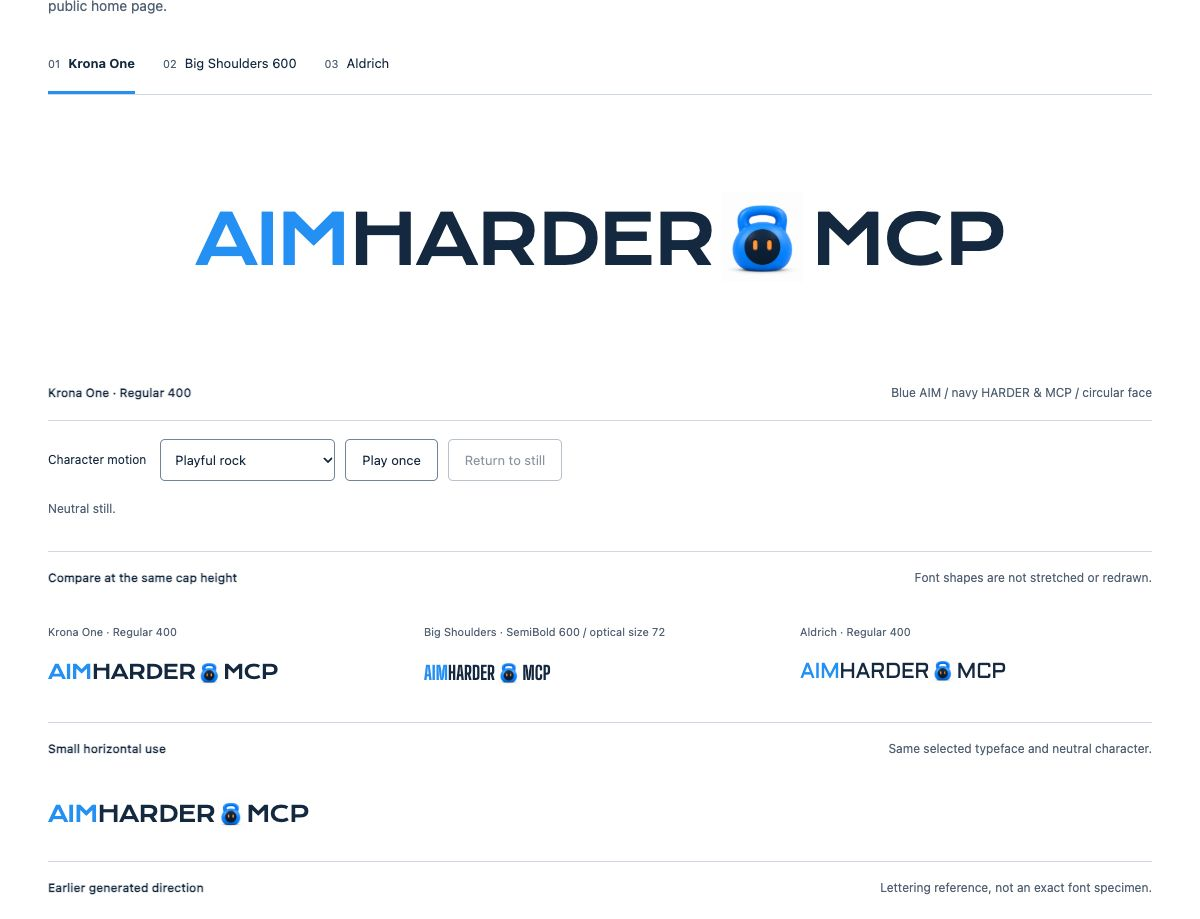
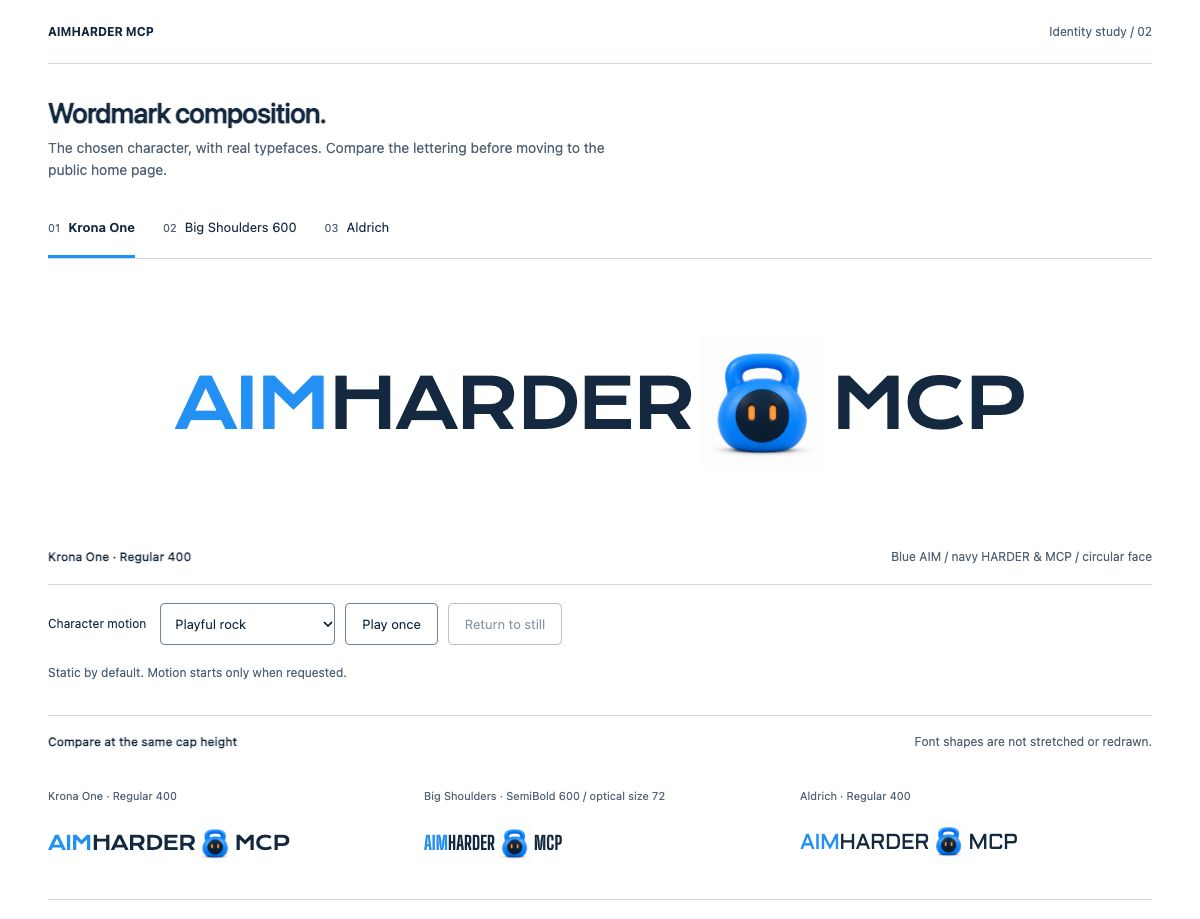
design: enlarge wordmark symbol by fifty percent

diff --git a/design/identity/wordmark-study/index.html b/design/identity/wordmark-study/index.html
@@ -7,10 +7,10 @@
 @font-face{font-family:Krona;src:url('assets/KronaOne-Regular.ttf') format('truetype');font-weight:400;font-display:swap}
 @font-face{font-family:Shoulders;src:url('assets/BigShoulders.ttf') format('truetype');font-weight:100 900;font-display:swap}
 @font-face{font-family:Aldrich;src:url('assets/Aldrich-Regular.ttf') format('truetype');font-weight:400;font-display:swap}
-:root{--blue:#2490f4;--ink:#14283f;--muted:#516174;--line:#cfd8e3;--cap:clamp(18px,4.4vw,53px);font-family:system-ui,sans-serif;color:var(--ink);background:#fff;color-scheme:light}*{box-sizing:border-box}body{margin:0}main{max-width:1240px;margin:auto;padding:24px 48px 60px}.masthead{display:flex;justify-content:space-between;gap:20px;padding-bottom:24px;border-bottom:1px solid var(--line);font-size:12px}.masthead span{color:var(--muted)}h1{font-size:28px;font-weight:550;letter-spacing:-.035em;margin:32px 0 8px}p{font-size:14px;line-height:1.6;color:var(--muted);margin:0;max-width:64ch}.type-tabs{display:flex;gap:28px;margin-top:28px;border-bottom:1px solid var(--line)}button,select{font:inherit;font-size:13px;color:var(--ink);background:#fff;cursor:pointer}button{border:0}.type-tabs button{min-height:48px;padding:0 0 10px;border-bottom:3px solid transparent;text-align:left}.type-tabs button[aria-pressed=true]{border-color:var(--blue);font-weight:650}.type-tabs small{color:var(--muted);margin-right:8px;font-size:11px;font-weight:400}button:focus-visible,select:focus-visible,a:focus-visible{outline:3px solid #1765b0;outline-offset:4px}.stage{min-height:290px;display:flex;align-items:center;justify-content:center;overflow:hidden}.logo{--family:Krona;--em:1.3103;--weight:400;--tracking:-.035em;display:inline-flex;align-items:center;justify-content:center;white-space:nowrap;font-family:var(--family),sans-serif;font-size:calc(var(--cap)*var(--em));font-weight:var(--weight);font-synthesis:none;font-optical-sizing:none;font-variation-settings:normal;letter-spacing:var(--tracking);line-height:1}.logo.shoulders{--family:Shoulders;--em:1.25;--weight:600;--tracking:.005em;font-variation-settings:'wght' 600,'opsz' 72}.logo.aldrich{--family:Aldrich;--em:1.4282;--weight:400;--tracking:-.025em}.aim{color:var(--blue)}.word{display:inline-flex}.symbol{position:relative;display:inline-block;width:calc(var(--cap)*1.55);height:calc(var(--cap)*1.70);margin:0 calc(var(--cap)*.14);overflow:hidden;flex:none;letter-spacing:0}.symbol img,.symbol video{position:absolute;width:calc(var(--cap)*1.9);height:calc(var(--cap)*1.9);max-width:none;left:50%;top:50%;transform:translate(-50%,-50%);object-fit:contain}.symbol{transform:translateY(calc(var(--cap)*-.05))}.logo.aldrich .symbol{transform:translateY(calc(var(--cap)*-.19))}.symbol [hidden]{display:none!important}.caption{display:flex;justify-content:space-between;gap:20px;font-size:12px;padding-bottom:20px;border-bottom:1px solid var(--line);color:var(--muted)}.caption strong{font-weight:550;color:var(--ink)}.controls{display:flex;align-items:center;gap:10px;flex-wrap:wrap;padding:18px 0}.controls label{font-size:12px;margin-right:4px}.controls select{min-height:42px;max-width:200px;border:1px solid #73849a;border-radius:5px;padding:8px 28px 8px 10px}.action{min-height:42px;border:1px solid #73849a;border-radius:5px;padding:8px 16px}.action:disabled{cursor:default;opacity:.5}.status{font-size:12px;min-height:20px;margin-bottom:32px}.section-title{display:flex;justify-content:space-between;gap:20px;font-size:12px;font-weight:550;margin:0;padding:18px 0;border-top:1px solid var(--line)}.section-title span{font-weight:400;color:var(--muted)}.comparisons{display:grid;grid-template-columns:1fr 1fr 1fr;gap:24px;padding:20px 0 36px}.specimen{min-width:0}.specimen>p{font-size:11px;margin-bottom:20px}.specimen .logo{--cap:15px;justify-content:flex-start}.small-use{padding:26px 0 32px}.small-use .logo{--cap:17px}.old-reference{padding-top:12px}.old-reference img{display:block;width:min(100%,900px);margin:0 auto}.note{font-size:12px;max-width:80ch;margin-top:16px}a{color:#1765b0;text-underline-offset:3px}footer{border-top:1px solid var(--line);margin-top:32px;padding-top:18px;display:flex;gap:24px;flex-wrap:wrap;font-size:12px}
+:root{--blue:#2490f4;--ink:#14283f;--muted:#516174;--line:#cfd8e3;--cap:clamp(18px,4.4vw,53px);font-family:system-ui,sans-serif;color:var(--ink);background:#fff;color-scheme:light}*{box-sizing:border-box}body{margin:0}main{max-width:1240px;margin:auto;padding:24px 48px 60px}.masthead{display:flex;justify-content:space-between;gap:20px;padding-bottom:24px;border-bottom:1px solid var(--line);font-size:12px}.masthead span{color:var(--muted)}h1{font-size:28px;font-weight:550;letter-spacing:-.035em;margin:32px 0 8px}p{font-size:14px;line-height:1.6;color:var(--muted);margin:0;max-width:64ch}.type-tabs{display:flex;gap:28px;margin-top:28px;border-bottom:1px solid var(--line)}button,select{font:inherit;font-size:13px;color:var(--ink);background:#fff;cursor:pointer}button{border:0}.type-tabs button{min-height:48px;padding:0 0 10px;border-bottom:3px solid transparent;text-align:left}.type-tabs button[aria-pressed=true]{border-color:var(--blue);font-weight:650}.type-tabs small{color:var(--muted);margin-right:8px;font-size:11px;font-weight:400}button:focus-visible,select:focus-visible,a:focus-visible{outline:3px solid #1765b0;outline-offset:4px}.stage{min-height:290px;display:flex;align-items:center;justify-content:center;overflow:hidden}.logo{--symbol-scale:1.5;--family:Krona;--em:1.3103;--weight:400;--tracking:-.035em;display:inline-flex;align-items:center;justify-content:center;white-space:nowrap;font-family:var(--family),sans-serif;font-size:calc(var(--cap)*var(--em));font-weight:var(--weight);font-synthesis:none;font-optical-sizing:none;font-variation-settings:normal;letter-spacing:var(--tracking);line-height:1}.logo.shoulders{--family:Shoulders;--em:1.25;--weight:600;--tracking:.005em;font-variation-settings:'wght' 600,'opsz' 72}.logo.aldrich{--family:Aldrich;--em:1.4282;--weight:400;--tracking:-.025em}.aim{color:var(--blue)}.word{display:inline-flex}.symbol{position:relative;display:inline-block;width:calc(var(--cap)*1.55*var(--symbol-scale));height:calc(var(--cap)*1.70*var(--symbol-scale));margin:0 calc(var(--cap)*.14);overflow:hidden;flex:none;letter-spacing:0}.symbol img,.symbol video{position:absolute;width:calc(var(--cap)*1.9*var(--symbol-scale));height:calc(var(--cap)*1.9*var(--symbol-scale));max-width:none;left:50%;top:50%;transform:translate(-50%,-50%);object-fit:contain}.symbol{transform:translateY(calc(var(--cap)*-.05))}.logo.aldrich .symbol{transform:translateY(calc(var(--cap)*-.19))}.symbol [hidden]{display:none!important}.caption{display:flex;justify-content:space-between;gap:20px;font-size:12px;padding-bottom:20px;border-bottom:1px solid var(--line);color:var(--muted)}.caption strong{font-weight:550;color:var(--ink)}.controls{display:flex;align-items:center;gap:10px;flex-wrap:wrap;padding:18px 0}.controls label{font-size:12px;margin-right:4px}.controls select{min-height:42px;max-width:200px;border:1px solid #73849a;border-radius:5px;padding:8px 28px 8px 10px}.action{min-height:42px;border:1px solid #73849a;border-radius:5px;padding:8px 16px}.action:disabled{cursor:default;opacity:.5}.status{font-size:12px;min-height:20px;margin-bottom:32px}.section-title{display:flex;justify-content:space-between;gap:20px;font-size:12px;font-weight:550;margin:0;padding:18px 0;border-top:1px solid var(--line)}.section-title span{font-weight:400;color:var(--muted)}.comparisons{display:grid;grid-template-columns:1fr 1fr 1fr;gap:24px;padding:20px 0 36px}.specimen{min-width:0}.specimen>p{font-size:11px;margin-bottom:20px}.specimen .logo{--cap:15px;justify-content:flex-start}.small-use{padding:26px 0 32px}.small-use .logo{--cap:17px}.old-reference{padding-top:12px}.old-reference img{display:block;width:min(100%,900px);margin:0 auto}.note{font-size:12px;max-width:80ch;margin-top:16px}a{color:#1765b0;text-underline-offset:3px}footer{border-top:1px solid var(--line);margin-top:32px;padding-top:18px;display:flex;gap:24px;flex-wrap:wrap;font-size:12px}
 @media(max-width:900px){main{padding:20px 24px 40px}.comparisons{grid-template-columns:1fr;gap:32px}.specimen>p{margin-bottom:10px}.specimen .logo{--cap:20px}}
 @media(max-width:480px){main{padding:18px 20px 32px}.masthead{font-size:11px;gap:12px}h1{font-size:25px;margin-top:28px}.type-tabs{gap:18px}.type-tabs button{font-size:12px}.type-tabs small{display:block;margin-bottom:6px}.stage{min-height:210px}.caption{flex-direction:column;gap:6px}.controls{gap:8px}.controls label{width:100%}.small-use .logo{--cap:15px}.specimen .logo{--cap:17px}.section-title{flex-direction:column;gap:5px}}
-</style>
+@media(max-width:360px){main{padding-inline:12px}}</style>
 <main>
 <header class="masthead"><strong>AIMHARDER MCP</strong><span>Identity study / 02</span></header>
 <h1>Wordmark composition.</h1>

diff --git a/design/identity/wordmark-study/README.md b/design/identity/wordmark-study/README.md
@@ -36,13 +36,15 @@ Fonts are bundled unchanged from the [Google Fonts source](https://github.com/go
 - Big Shoulders: SemiBold 600, variable-font optical size pinned to 72, cap/em 1600/2000. More condensed athletic alternative. Optical size is explicit, rather than an assertion that it recreates every setting in the owner's screenshot.
 - Aldrich: Regular 400, cap/em 1434/2048. More technical alternative.
 
-The shared rendered character is about 1.24 times nominal cap height (source content inside its image canvas), with a fixed allocation between AIMHARDER and MCP. Small vertical optical corrections accommodate each font's line-box metrics. This is a CSS image/clip composition, not a vector master, alpha extraction or validated 3D mesh. White raster/video backgrounds are retained; reverse/dark-background use is not established.
+On 2026-10-30 the owner requested a 50% larger symbol. The shared `--symbol-scale: 1.5` increases both image/video dimensions and their reserved slot by 50%, while letter sizing and typeface settings remain unchanged. The rendered character is now about 1.86 times nominal cap height (source content inside its image canvas), compared with about 1.24 previously. Narrow screens up to 360px use 12px page gutters so the complete horizontal logo still fits without shrinking its lettering. Small vertical optical corrections accommodate each font's line-box metrics. This is a CSS image/clip composition, not a vector master, alpha extraction or validated 3D mesh. White raster/video backgrounds are retained; reverse/dark-background use is not established.
 
 The static image is the unchanged [neutral master](../video/reference-pack/01-front-neutral.png). The selector references existing quick blink, rock, hop, dance, curious and delight clips. Only the large specimen plays; comparison and small-use marks stay static. Playback requires an explicit button press, uses no loop and restores the shared still on completion or stop. Hidden-page transitions also restore still. A reduced-motion preference displays a static-first explanation; real OS/device acceptance remains pending. This is prototype behavior, not a production runtime contract.
 
 ## Verification and boundaries
 
-Browser inspection confirmed all three distinct type renderings, type-selection state, unchanged word order, color split and symbol placement. The rock and dance clips played in the fixed logo slot, then returned to the shared neutral still. No media error was reported. The layout was visually inspected at the normal 1200px browser width and at 390px. At 390px and 320px the document has no horizontal overflow; the selected Krona logo is about 276px wide within the 350px/280px stage. Temporary viewport changes were reset. This does not validate physical mobile devices or all font/motion combinations.
+Initial browser inspection confirmed all three distinct type renderings, type-selection state, unchanged word order, color split and symbol placement. The rock and dance clips played in the fixed logo slot, then returned to the shared neutral still. No media error was reported.
+
+The 2026-10-30 size revision was visually inspected at the normal 1200px browser width. Image and video canvas widths are both about 150.47px, versus 100.31px previously, confirming the 1.5× multiplier at the same letter size. At 390px and 320px the document has no horizontal overflow; the selected Krona logo is about 290px wide within the 350px/296px stage. Desktop/mobile captures were refreshed. The enlarged video played and returned to the shared still without a reported media error. Temporary viewport changes were reset. This does not validate physical mobile devices or all font/motion combinations.
 
 JavaScript syntax, local links, font/media references, checksums and `git diff --check` were checked. No production TypeScript changed and no runtime test suite/typecheck was run for the isolated board. Existing `design/ahmcp.pen` foundation boards remain unchanged; after choosing the wordmark direction, its selected composition can be recorded in that design handoff. No new architecture/security/product ADR is warranted for these reversible visual candidates.
 
